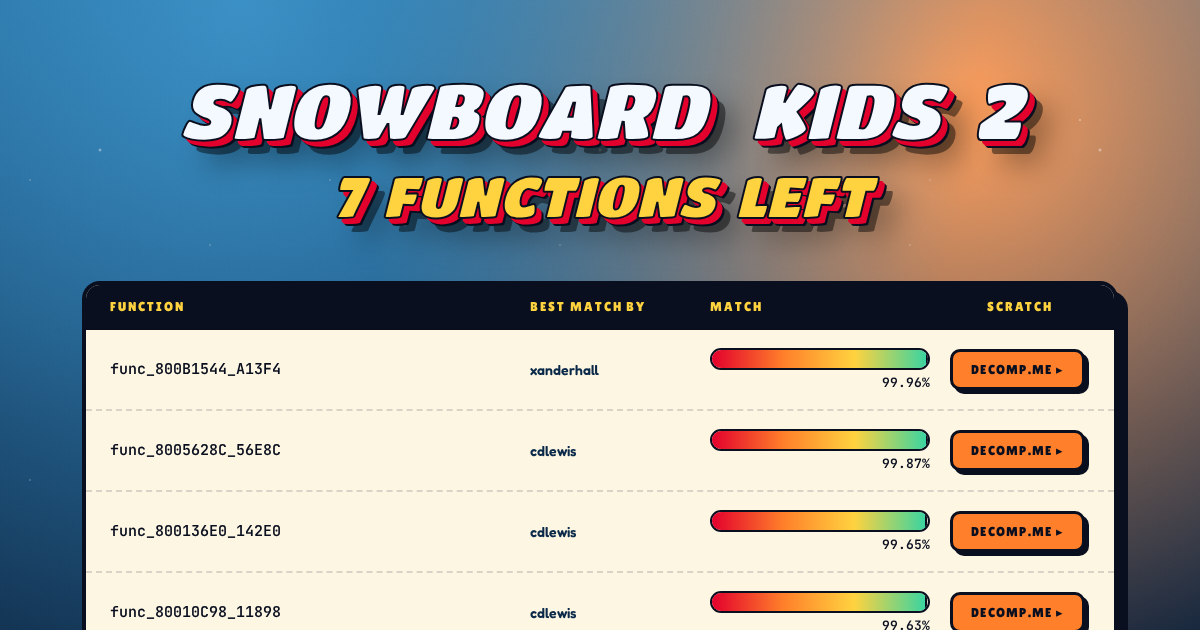
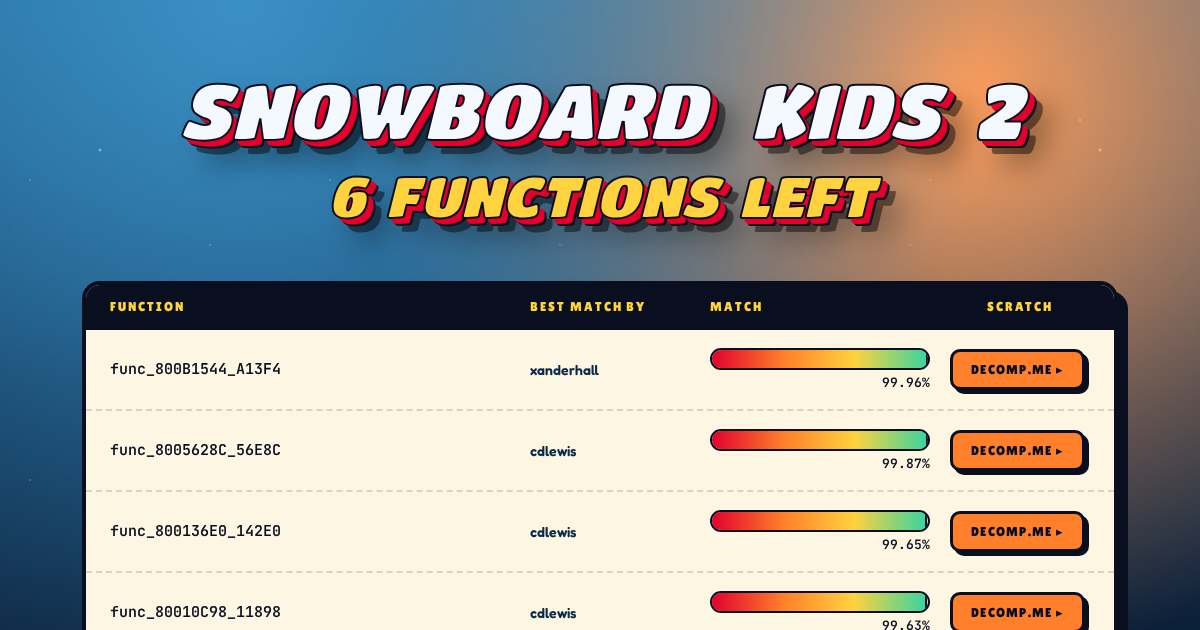
update leaderboard

Changed region(s): [[0.2775, 0.2714, 0.74, 0.3619]]

diff --git a/docs/index.html b/docs/index.html
@@ -4,7 +4,7 @@
     <meta charset="UTF-8" />
     <meta name="viewport" content="width=device-width, initial-scale=1.0" />
     <title>Snowboard Kids 2 — Remaining Functions</title>
-    <meta property="og:title" content="Snowboard Kids 2 — 7 FUNCTIONS Left" />
+    <meta property="og:title" content="Snowboard Kids 2 — 6 FUNCTIONS Left" />
     <meta property="og:description" content="Snowboard Kids 2 matching decompilation progress tracker" />
     <meta property="og:image" content="https://chrislewis.au/snowboardkids2-decomp/og.png" />
     <meta property="og:image:width" content="1200" />
@@ -313,7 +313,7 @@
             ><span>&nbsp;&nbsp;</span><span>2</span></span
           >
         </span>
-        <span class="line2"><span class="word w1"><span>7</span></span><span class="word w2"><span>F</span><span>U</span><span>N</span><span>C</span><span>T</span><span>I</span><span>O</span><span>N</span><span>S</span></span><span class="word w3"><span>L</span><span>E</span><span>F</span><span>T</span></span></span>
+        <span class="line2"><span class="word w1"><span>6</span></span><span class="word w2"><span>F</span><span>U</span><span>N</span><span>C</span><span>T</span><span>I</span><span>O</span><span>N</span><span>S</span></span><span class="word w3"><span>L</span><span>E</span><span>F</span><span>T</span></span></span>
       </h1>
     </header>
 
@@ -356,18 +356,12 @@
           <div><a class="scratch-btn" href="https://decomp.me/scratch/9sDuy" target="_blank" rel="noopener">decomp.me ▸</a></div>
         </div>
         <div class="board-row">
-          <div><div class="fn-name">updateAndRenderRaceCharacters</div></div>
-          <div><div class="author-name">cdlewis</div></div>
-          <div><div class="match-bar"><div class="match-fill" style="width:99.1%"></div></div><div class="match-num">99.06%</div></div>
-          <div><a class="scratch-btn" href="https://decomp.me/scratch/vWEX1" target="_blank" rel="noopener">decomp.me ▸</a></div>
-        </div>
-        <div class="board-row">
           <div><div class="fn-name">func_80060CDC_618DC</div></div>
           <div><div class="author-name">cdlewis</div></div>
           <div><div class="match-bar"><div class="match-fill" style="width:97.3%"></div></div><div class="match-num">97.26%</div></div>
           <div><a class="scratch-btn" href="https://decomp.me/scratch/rRUTa" target="_blank" rel="noopener">decomp.me ▸</a></div>
         </div>
-<div style="text-align:center;padding:12px 24px;font-size:11px;color:#999;font-family:JetBrains Mono,monospace">Generated 2026-05-13 11:44</div>
+<div style="text-align:center;padding:12px 24px;font-size:11px;color:#999;font-family:JetBrains Mono,monospace">Generated 2026-05-13 12:31</div>
       </div>
     </main>
   </body>